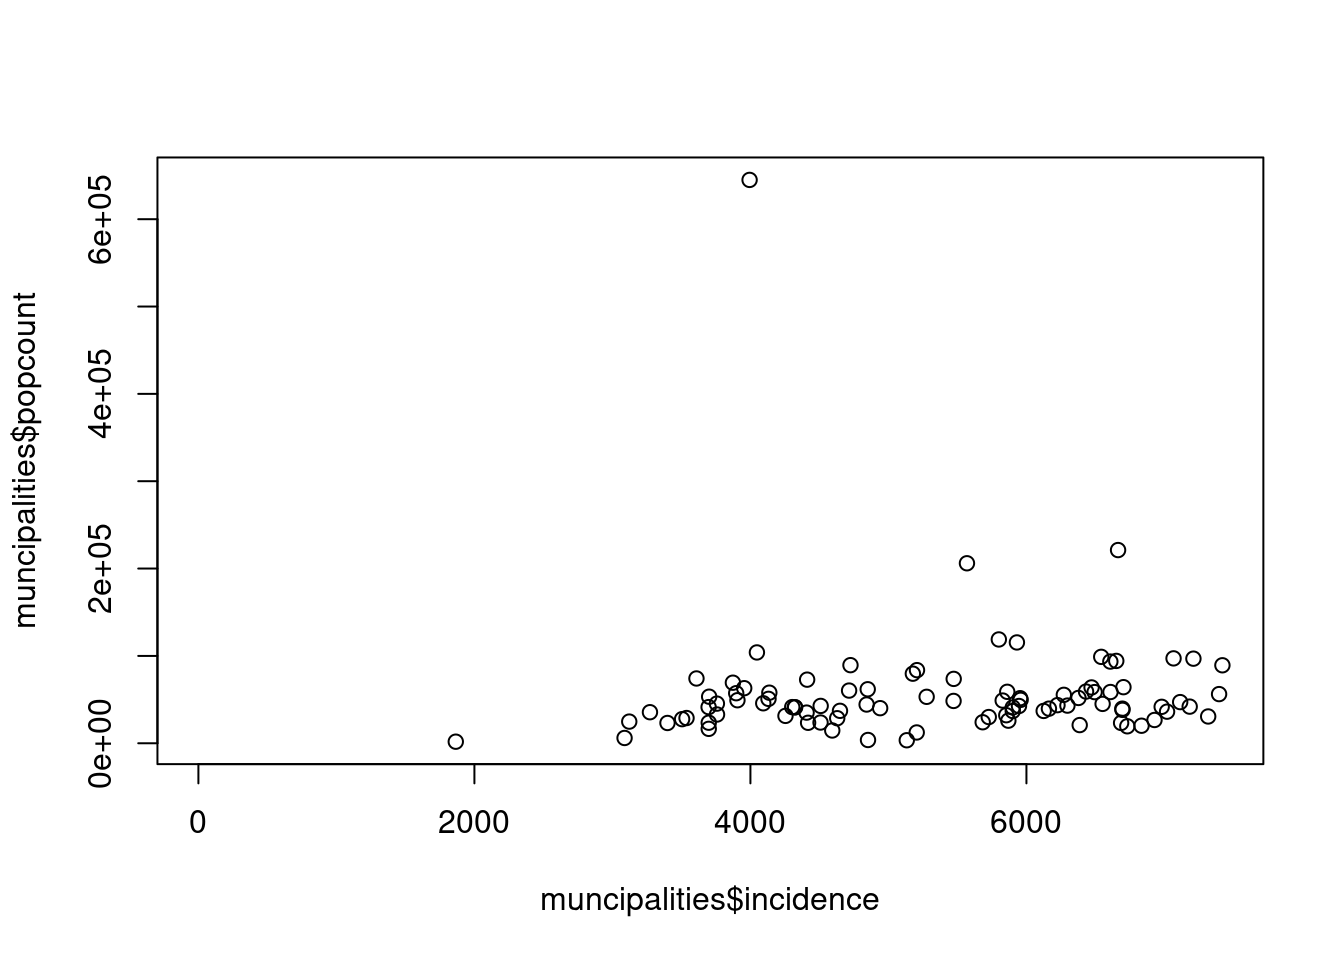
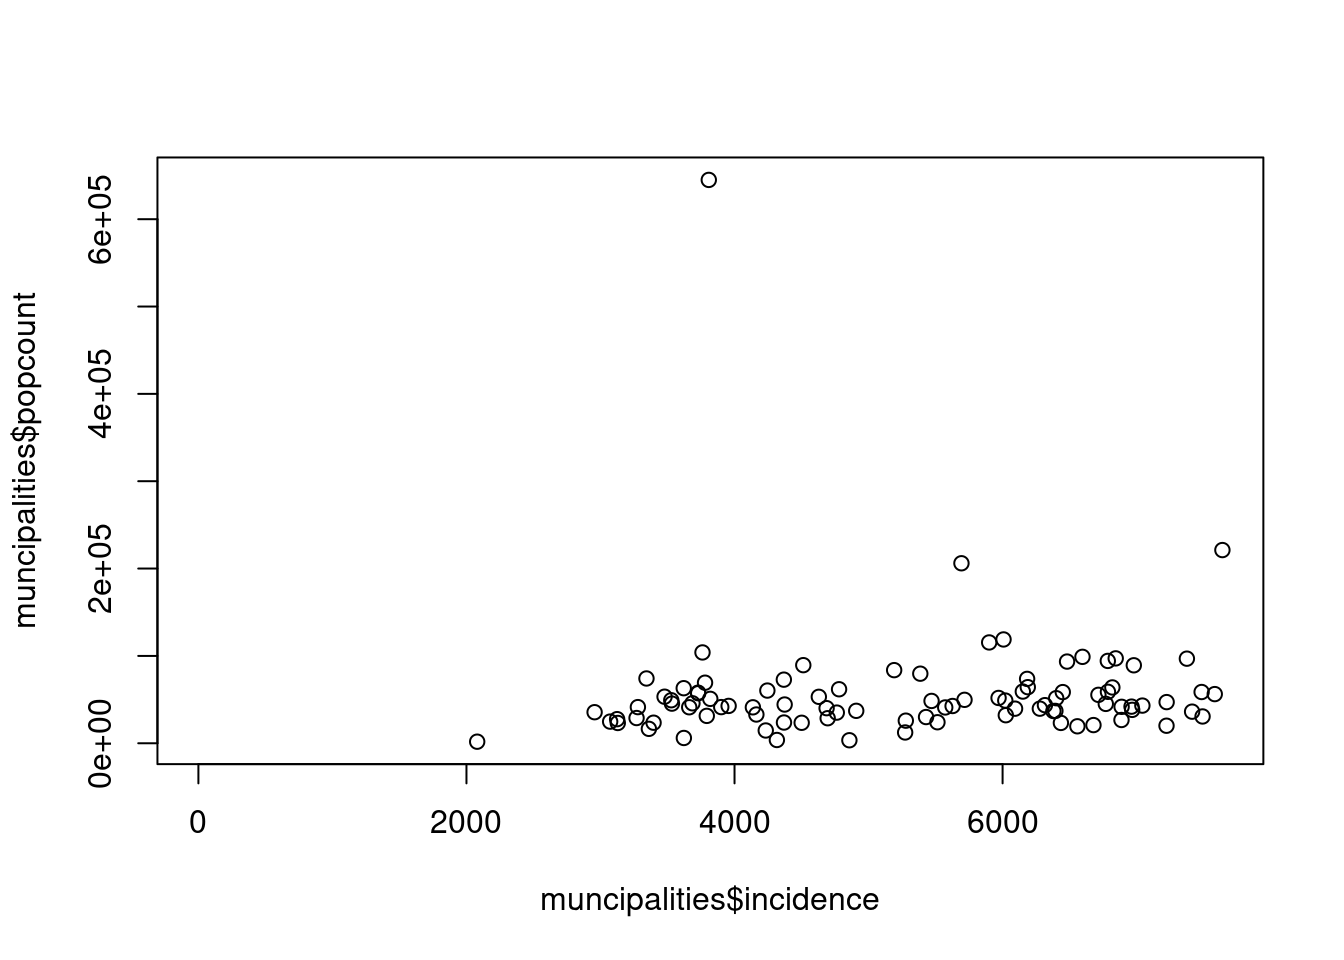
2022-02-15

diff --git a/docs/index.html b/docs/index.html
@@ -10,7 +10,7 @@
 
 
 
-<meta name="date" content="2022-02-11" />
+<meta name="date" content="2022-02-15" />
 
 <title>Covid-19 Stats for Denmark</title>
 
@@ -261,7 +261,7 @@ $(document).ready(function () {
 
 
 <h1 class="title toc-ignore">Covid-19 Stats for Denmark</h1>
-<h4 class="date">2022-02-11</h4>
+<h4 class="date">2022-02-15</h4>
 
 </div>
 
@@ -308,7 +308,7 @@ $(document).ready(function () {
 <pre class="r"><code>library(tidyverse)
 library(lubridate)</code></pre>
 <p>SSI’s data is in a zip file. We unpack this zip file into a directory of the general form <code>YYYY-MM-DD</code>. Lets set up a name for the current directory we want to grab data from</p>
-<pre class="r"><code>date &lt;- &quot;2022-02-11&quot;</code></pre>
+<pre class="r"><code>date &lt;- &quot;2022-02-15&quot;</code></pre>
 </div>
 <div id="ingesting-data" class="section level2">
 <h2>Ingesting data</h2>
@@ -350,7 +350,7 @@ library(lubridate)</code></pre>
                                       ))</code></pre>
 <pre><code>## ℹ Using &quot;&#39;,&#39;&quot; as decimal and &quot;&#39;.&#39;&quot; as grouping mark. Use `read_delim()` for more control.</code></pre>
 <pre class="r"><code>data</code></pre>
-<pre><code>## # A tibble: 6,812 × 9
+<pre><code>## # A tibble: 6,852 × 9
 ##    Region      Prøvetagningsdato Køn   `Bekræftede tilfælde …  Døde Indlæggelser
 ##    &lt;fct&gt;       &lt;date&gt;            &lt;fct&gt;                  &lt;dbl&gt; &lt;dbl&gt;        &lt;dbl&gt;
 ##  1 Sjælland    2020-02-26        M                          1     0            0
@@ -363,7 +363,7 @@ library(lubridate)</code></pre>
 ##  8 Hovedstaden 2020-03-03        F                          1     0            0
 ##  9 Hovedstaden 2020-03-03        M                          3     0            1
 ## 10 Hovedstaden 2020-03-04        M                          2     0            0
-## # … with 6,802 more rows, and 3 more variables: Kummuleret antal døde &lt;dbl&gt;,
+## # … with 6,842 more rows, and 3 more variables: Kummuleret antal døde &lt;dbl&gt;,
 ## #   Kummuleret antal bekræftede tilfælde &lt;dbl&gt;,
 ## #   Kummuleret antal indlæggelser &lt;dbl&gt;</code></pre>
 <p>We certainly don’t want to work with danish-named columns. Rather, we want small descriptive names which are easy to type. We send our dataset through a <code>rename</code> pass for this.</p>
@@ -378,7 +378,7 @@ library(lubridate)</code></pre>
 # Cut the cumulative columns away
 data &lt;- data %&gt;% select(region, date, gender, cases, deaths, hospitalizations)
 data</code></pre>
-<pre><code>## # A tibble: 6,812 × 6
+<pre><code>## # A tibble: 6,852 × 6
 ##    region      date       gender cases deaths hospitalizations
 ##    &lt;fct&gt;       &lt;date&gt;     &lt;fct&gt;  &lt;dbl&gt;  &lt;dbl&gt;            &lt;dbl&gt;
 ##  1 Sjælland    2020-02-26 M          1      0                0
@@ -391,7 +391,7 @@ data</code></pre>
 ##  8 Hovedstaden 2020-03-03 F          1      0                0
 ##  9 Hovedstaden 2020-03-03 M          3      0                1
 ## 10 Hovedstaden 2020-03-04 M          2      0                0
-## # … with 6,802 more rows</code></pre>
+## # … with 6,842 more rows</code></pre>
 <p>Provide a low cut-off. We are interested in the recent period with Omicron, rather than the full duration of Covid-19.</p>
 <pre class="r"><code>lo_cutoff &lt;- &#39;2021-09-01&#39;</code></pre>
 <p>The high end of that cutoff, we set to two days before the maximal date in our data set</p>
@@ -405,7 +405,7 @@ data</code></pre>
 # Put this into the summary
 summary &lt;- data
 summary</code></pre>
-<pre><code>## # A tibble: 1,610 × 6
+<pre><code>## # A tibble: 1,650 × 6
 ##    region      date       gender cases deaths hospitalizations
 ##    &lt;fct&gt;       &lt;date&gt;     &lt;fct&gt;  &lt;dbl&gt;  &lt;dbl&gt;            &lt;dbl&gt;
 ##  1 Hovedstaden 2021-09-01 F        215      0                7
@@ -418,7 +418,7 @@ summary</code></pre>
 ##  8 Nordjylland 2021-09-01 M         16      1                2
 ##  9 Sjælland    2021-09-01 M         39      0                3
 ## 10 Syddanmark  2021-09-01 M         41      0                1
-## # … with 1,600 more rows</code></pre>
+## # … with 1,640 more rows</code></pre>
 </div>
 <div id="weekly-key-figures-split-by-age" class="section level3">
 <h3>Weekly key figures split by age</h3>
@@ -443,7 +443,7 @@ summary</code></pre>
                         tested = &#39;Antal testede&#39;,
                         cases = &#39;Antal positive&#39;)
 data</code></pre>
-<pre><code>## # A tibble: 931 × 7
+<pre><code>## # A tibble: 940 × 7
 ##    week     ageGroup tested_100k cases_100k hospitalized_100k tested cases
 ##    &lt;chr&gt;    &lt;fct&gt;          &lt;dbl&gt;      &lt;dbl&gt;             &lt;dbl&gt;  &lt;dbl&gt; &lt;dbl&gt;
 ##  1 2020-W04 00-02              0          0                 0      0     0
@@ -456,7 +456,7 @@ data</code></pre>
 ##  8 2020-W04 65-79              0          0                 0      0     0
 ##  9 2020-W04 80+                0          0                 0      0     0
 ## 10 2020-W05 65-79              0          0                 0      1     0
-## # … with 921 more rows</code></pre>
+## # … with 930 more rows</code></pre>
 <p>Take a look at the <code>week</code> column. It reports a year, and a week number. We’ll need to handle this, by converting this into a date. We’ll do that by defining a fixup function. If we have a string such as <code>2020-W04</code>, it means the 4th week of 2020. To get a date, we need a day inside the week to use as the day-of-week. So we turn the string into <code>2020-W04-1</code>, then send it through <code>strptime()</code>, a general time-parsing function.</p>
 <pre class="r"><code>fixup_week &lt;- function(s) {
     # For strptime to do its work correctly, it must know a day of the week. Here, we
@@ -508,16 +508,16 @@ data</code></pre>
 <pre><code>## # A tibble: 99 × 11
 ##     lau1 name     `Bekræftede tilfæ… Incidens cases incidence tested tested_100k
 ##    &lt;dbl&gt; &lt;fct&gt;                 &lt;dbl&gt;    &lt;dbl&gt; &lt;dbl&gt;     &lt;dbl&gt;  &lt;dbl&gt;       &lt;dbl&gt;
-##  1   411 &quot;&quot;                        0       NA     0         0     88       96703
-##  2   101 &quot;Københ…             306075    47730 25615      3994 654517      102000
-##  3   147 &quot;Freder…              46380    44946  4176      4047 111534      108000
-##  4   151 &quot;Baller…              22369    45481  1921      3906  49931      102000
-##  5   153 &quot;Brøndb…              17756    49823  1166      3272  36059      101000
-##  6   155 &quot;Dragør&quot;               6397    43791   671      4593  14505       99295
-##  7   157 &quot;Gentof…              32240    43610  2668      3609  75795      103000
-##  8   159 &quot;Gladsa…              31645    45764  2678      3873  71844      104000
-##  9   161 &quot;Glostr…              10948    46750   866      3698  24329      104000
-## 10   163 &quot;Herlev&quot;              14000    48642  1018      3537  29711      103000
+##  1   411 &quot;&quot;                        0       NA     0         0     90       98901
+##  2   101 &quot;Københ…             317102    49416 24437      3808 655376      102000
+##  3   147 &quot;Freder…              48071    46542  3885      3761 111737      108000
+##  4   151 &quot;Baller…              23219    47126  1738      3528  49992      101000
+##  5   153 &quot;Brøndb…              18307    51292  1055      2956  36126      101000
+##  6   155 &quot;Dragør&quot;               6732    46182   617      4233  14523       99630
+##  7   157 &quot;Gentof…              33243    44954  2472      3343  75886      103000
+##  8   159 &quot;Gladsa…              32817    47453  2614      3780  71949      104000
+##  9   161 &quot;Glostr…              11386    48639   795      3396  24370      104000
+## 10   163 &quot;Herlev&quot;              14482    50304   941      3269  29744      103000
 ## # … with 89 more rows, and 3 more variables: tested_1w &lt;dbl&gt;,
 ## #   tested_100k_1w &lt;dbl&gt;, population &lt;dbl&gt;</code></pre>
 <pre class="r"><code>muncipalities &lt;- data</code></pre>
@@ -688,21 +688,21 @@ muncipalities$incidence_type &lt;- ifelse(muncipalities$incidence_z &lt; 0, &quo
 muncipalities$rate_z &lt;- round(muncipalities$rate - mean(muncipalities$rate), 5)
 muncipalities$rate_type &lt;- ifelse(muncipalities$rate_z &lt; 0, &quot;Below mean&quot;, &quot;Above mean&quot;)
 muncipalities$rate</code></pre>
-<pre><code>##  [1] 0.0000000 0.3507559 0.3604039 0.2929247 0.2977528 0.3376950 0.3157770
-##  [8] 0.3095954 0.2964738 0.2884670 0.3080115 0.3068519 0.2888626 0.3446630
-## [15] 0.3131789 0.2825853 0.3222558 0.3105209 0.3262307 0.3558008 0.3325843
-## [22] 0.3247382 0.3186776 0.3002336 0.3285609 0.3311728 0.3091029 0.3089515
-## [29] 0.3173302 0.3098231 0.3246923 0.3122633 0.3121154 0.2792650 0.3234257
-## [36] 0.3156450 0.3919561 0.3236280 0.3508398 0.3204454 0.3637712 0.3025864
-## [43] 0.2497471 0.3203562 0.2785469 0.2817158 0.2983862 0.3711764 0.3801197
-## [50] 0.3824757 0.3416834 0.3239097 0.3322499 0.3325162 0.3767380 0.3480392
-## [57] 0.2064373 0.3731424 0.3882576 0.3089836 0.3448221 0.3985668 0.3713080
-## [64] 0.4054054 0.4171061 0.3397368 0.3650226 0.3900348 0.3860965 0.3673306
-## [71] 0.4204365 0.3642295 0.3759355 0.3571236 0.4090566 0.4018127 0.3807297
-## [78] 0.3677618 0.4184044 0.4048910 0.4390244 0.4023707 0.4181380 0.3898195
-## [85] 0.4223805 0.4075247 0.3796450 0.3860751 0.3750692 0.4074009 0.4056212
-## [92] 0.3666241 0.4026303 0.1534884 0.4138376 0.4027181 0.3745417 0.3998315
-## [99] 0.3946463</code></pre>
+<pre><code>##  [1] 0.0000000 0.3492247 0.3523170 0.2881300 0.2947751 0.3505682 0.3054114
+##  [8] 0.3196771 0.3026266 0.2830927 0.2985075 0.3117717 0.2997873 0.3374686
+## [15] 0.3069083 0.2912154 0.3175739 0.3054024 0.3326451 0.3586842 0.3123964
+## [22] 0.3261994 0.3135183 0.3073804 0.3276923 0.3258936 0.3061966 0.3133894
+## [29] 0.3337118 0.3037132 0.3352159 0.3276623 0.3181052 0.3149261 0.3380072
+## [36] 0.3430079 0.4059041 0.3540873 0.3671266 0.3351317 0.3708096 0.3344983
+## [43] 0.2543133 0.3351068 0.2774159 0.2833836 0.3030192 0.3793266 0.3854220
+## [50] 0.3834036 0.3485248 0.3500000 0.3477189 0.3399102 0.3914215 0.3550328
+## [57] 0.2222222 0.4070699 0.3863636 0.3418957 0.3748203 0.4062425 0.3429752
+## [64] 0.4197513 0.4252220 0.3842516 0.4025419 0.4103614 0.4021631 0.3912782
+## [71] 0.4235927 0.3802178 0.4038156 0.3839756 0.4281274 0.4233668 0.3974342
+## [78] 0.3757196 0.4385045 0.4095794 0.3980100 0.4060748 0.4289924 0.4068744
+## [85] 0.4406832 0.4224705 0.4079392 0.4001839 0.4008991 0.4229765 0.4318109
+## [92] 0.4022386 0.4304753 0.1831683 0.4383823 0.4282937 0.3960942 0.4361182
+## [99] 0.4177556</code></pre>
 <pre class="r"><code>ggplot(muncipalities %&gt;% mutate(name = fct_reorder(name, rate)), aes(x=name, y=rate)) +
   geom_bar(stat=&#39;identity&#39;, aes(fill=rate_type), width=.5)  +
   scale_colour_brewer(palette=&quot;Set2&quot;) +
@@ -762,15 +762,15 @@ popcount</code></pre>
 ##    name            incidence popcount
 ##    &lt;chr&gt;               &lt;dbl&gt;    &lt;dbl&gt;
 ##  1 &quot;&quot;                      0       NA
-##  2 &quot;København&quot;          3994   644987
-##  3 &quot;Frederiksberg&quot;      4047   103963
-##  4 &quot;Ballerup&quot;           3906    49228
-##  5 &quot;Brøndby&quot;            3272    35535
-##  6 &quot;Dragør&quot;             4593    14602
-##  7 &quot;Gentofte&quot;           3609    74154
-##  8 &quot;Gladsaxe&quot;           3873    69321
-##  9 &quot;Glostrup&quot;           3698    23519
-## 10 &quot;Herlev&quot;             3537    28861
+##  2 &quot;København&quot;          3808   644987
+##  3 &quot;Frederiksberg&quot;      3761   103963
+##  4 &quot;Ballerup&quot;           3528    49228
+##  5 &quot;Brøndby&quot;            2956    35535
+##  6 &quot;Dragør&quot;             4233    14602
+##  7 &quot;Gentofte&quot;           3343    74154
+##  8 &quot;Gladsaxe&quot;           3780    69321
+##  9 &quot;Glostrup&quot;           3396    23519
+## 10 &quot;Herlev&quot;             3269    28861
 ## # … with 89 more rows</code></pre>
 <p>Now, test correlation via Pearson:</p>
 <pre class="r"><code>plot(muncipalities$incidence, muncipalities$popcount)</code></pre>
@@ -780,13 +780,13 @@ popcount</code></pre>
 ##  Pearson&#39;s product-moment correlation
 ## 
 ## data:  muncipalities$incidence and muncipalities$popcount
-## t = 0.2887, df = 92, p-value = 0.7735
+## t = 0.43721, df = 92, p-value = 0.663
 ## alternative hypothesis: true correlation is not equal to 0
 ## 95 percent confidence interval:
-##  -0.1735896  0.2312926
+##  -0.1585444  0.2458837
 ## sample estimates:
 ##        cor 
-## 0.03008552</code></pre>
+## 0.04553535</code></pre>
 <p>Clearly, this argues there are no strong connection between population count, and the incidence in a given muncipality.</p>
 <p>Analyzing the rate shows there’s a connection between it and incidence, but this is more expected:</p>
 <pre class="r"><code>pairs(muncipalities %&gt;% select(incidence,popcount,rate))</code></pre>
@@ -796,17 +796,17 @@ popcount</code></pre>
 ##  Pearson&#39;s product-moment correlation
 ## 
 ## data:  muncipalities$incidence and muncipalities$rate
-## t = 14.682, df = 97, p-value &lt; 2.2e-16
+## t = 16.698, df = 97, p-value &lt; 2.2e-16
 ## alternative hypothesis: true correlation is not equal to 0
 ## 95 percent confidence interval:
-##  0.7571884 0.8830979
+##  0.7999374 0.9048794
 ## sample estimates:
 ##       cor 
-## 0.8304642</code></pre>
+## 0.8613304</code></pre>
 <p>Summarize:</p>
 <pre class="r"><code>summary(muncipalities$rate)</code></pre>
 <pre><code>##    Min. 1st Qu.  Median    Mean 3rd Qu.    Max. 
-##  0.0000  0.3122  0.3448  0.3438  0.3861  0.4390</code></pre>
+##  0.0000  0.3162  0.3523  0.3549  0.4032  0.4407</code></pre>
 <pre class="r"><code>d &lt;- density(muncipalities$rate)
 plot(d)</code></pre>
 <p><img src="index_files/figure-html/muncipality-summary-1.png" width="672" /></p>

diff --git a/docs/core.html b/docs/core.html
@@ -10,7 +10,7 @@
 
 
 
-<meta name="date" content="2022-02-11" />
+<meta name="date" content="2022-02-15" />
 
 <title>Core Covid-19 Stats for Denmark</title>
 
@@ -261,7 +261,7 @@ $(document).ready(function () {
 
 
 <h1 class="title toc-ignore">Core Covid-19 Stats for Denmark</h1>
-<h4 class="date">2022-02-11</h4>
+<h4 class="date">2022-02-15</h4>
 
 </div>
 
@@ -325,7 +325,7 @@ rt_cases</code></pre>
 <pre class="r"><code>m_cases_timeseries_path &lt;- sprintf(&quot;%s/Municipality_cases_time_series.csv&quot;, path)
 m_cases_timeseries &lt;- readr::read_csv2(m_cases_timeseries_path)
 m_cases_timeseries</code></pre>
-<pre><code>## # A tibble: 716 × 101
+<pre><code>## # A tibble: 720 × 101
 ##    SampleDate Roskilde Copenhagen Aarhus Frederiksberg Kalundborg Middelfart
 ##    &lt;date&gt;        &lt;dbl&gt;      &lt;dbl&gt;  &lt;dbl&gt;         &lt;dbl&gt;      &lt;dbl&gt;      &lt;dbl&gt;
 ##  1 2020-02-26        1          0      0             0          0          0
@@ -338,7 +338,7 @@ m_cases_timeseries</code></pre>
 ##  8 2020-03-05        0          2      0             2          0          0
 ##  9 2020-03-06        0          0      0             0          0          0
 ## 10 2020-03-07        0          1      1             1          0          0
-## # … with 706 more rows, and 94 more variables: Gentofte &lt;dbl&gt;, Solrød &lt;dbl&gt;,
+## # … with 710 more rows, and 94 more variables: Gentofte &lt;dbl&gt;, Solrød &lt;dbl&gt;,
 ## #   Allerød &lt;dbl&gt;, Dragør &lt;dbl&gt;, Helsingør &lt;dbl&gt;, Hillerød &lt;dbl&gt;,
 ## #   Rudersdal &lt;dbl&gt;, Næstved &lt;dbl&gt;, Aalborg &lt;dbl&gt;, Vallensbæk &lt;dbl&gt;,
 ## #   Esbjerg &lt;dbl&gt;, Favrskov &lt;dbl&gt;, Frederikssund &lt;dbl&gt;, Furesø &lt;dbl&gt;,
@@ -351,7 +351,7 @@ m_cases_timeseries</code></pre>
   rename(date = `SampleDate`)
 
 m_cases_timeseries</code></pre>
-<pre><code>## # A tibble: 71,600 × 3
+<pre><code>## # A tibble: 72,000 × 3
 ##    date       Municipality  Cases
 ##    &lt;date&gt;     &lt;chr&gt;         &lt;dbl&gt;
 ##  1 2020-02-26 Roskilde          1
@@ -364,7 +364,7 @@ m_cases_timeseries</code></pre>
 ##  8 2020-02-26 Solrød            0
 ##  9 2020-02-26 Allerød           0
 ## 10 2020-02-26 Dragør            0
-## # … with 71,590 more rows</code></pre>
+## # … with 71,990 more rows</code></pre>
 <p>We use the same strategy for the tests:</p>
 <pre class="r"><code>m_tested_timeseries_path &lt;- sprintf(&quot;%s/Municipality_tested_persons_time_series.csv&quot;, path)
 m_tested_timeseries &lt;- readr::read_csv2(m_tested_timeseries_path)
@@ -375,7 +375,7 @@ m_tested_timeseries &lt;- m_tested_timeseries %&gt;%
 <pre class="r"><code>municipality &lt;- m_cases_timeseries %&gt;% left_join(m_tested_timeseries, by = c(&quot;date&quot;, &quot;Municipality&quot;))
 municipality &lt;- municipality %&gt;% mutate(Municipality = factor(Municipality))
 municipality</code></pre>
-<pre><code>## # A tibble: 71,600 × 4
+<pre><code>## # A tibble: 72,000 × 4
 ##    date       Municipality  Cases Tested
 ##    &lt;date&gt;     &lt;fct&gt;         &lt;dbl&gt;  &lt;dbl&gt;
 ##  1 2020-02-26 Roskilde          1      3
@@ -388,7 +388,7 @@ municipality</code></pre>
 ##  8 2020-02-26 Solrød            0      0
 ##  9 2020-02-26 Allerød           0      0
 ## 10 2020-02-26 Dragør            0      0
-## # … with 71,590 more rows</code></pre>
+## # … with 71,990 more rows</code></pre>
 </div>
 </div>
 <div id="plots-of-interest" class="section level2">
